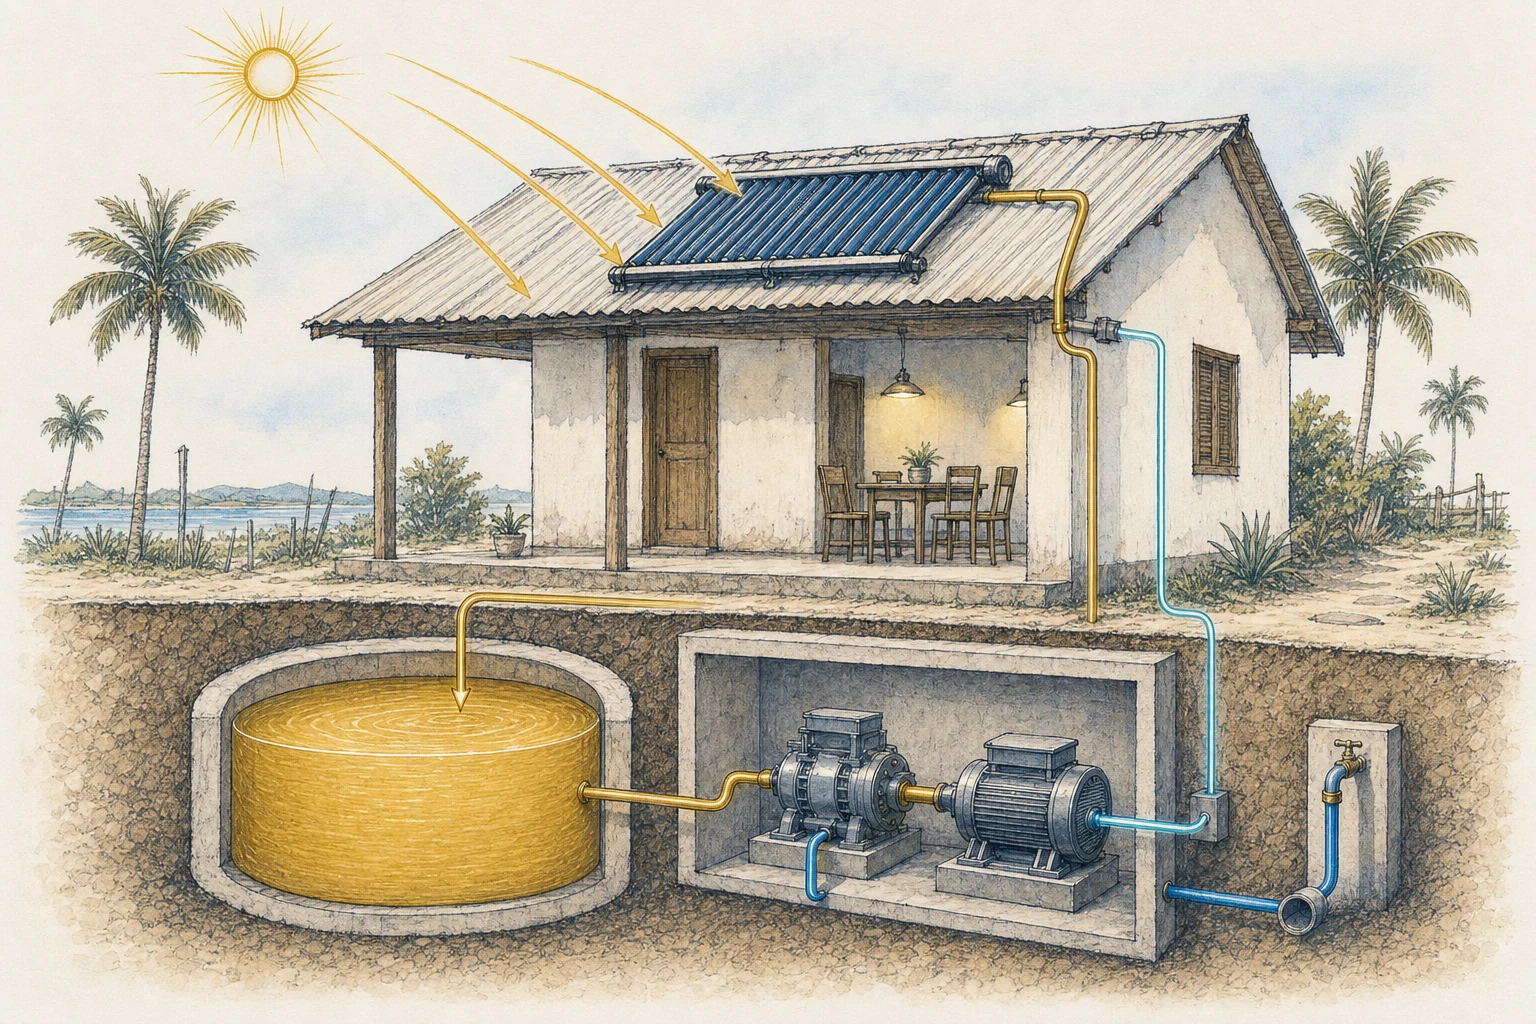
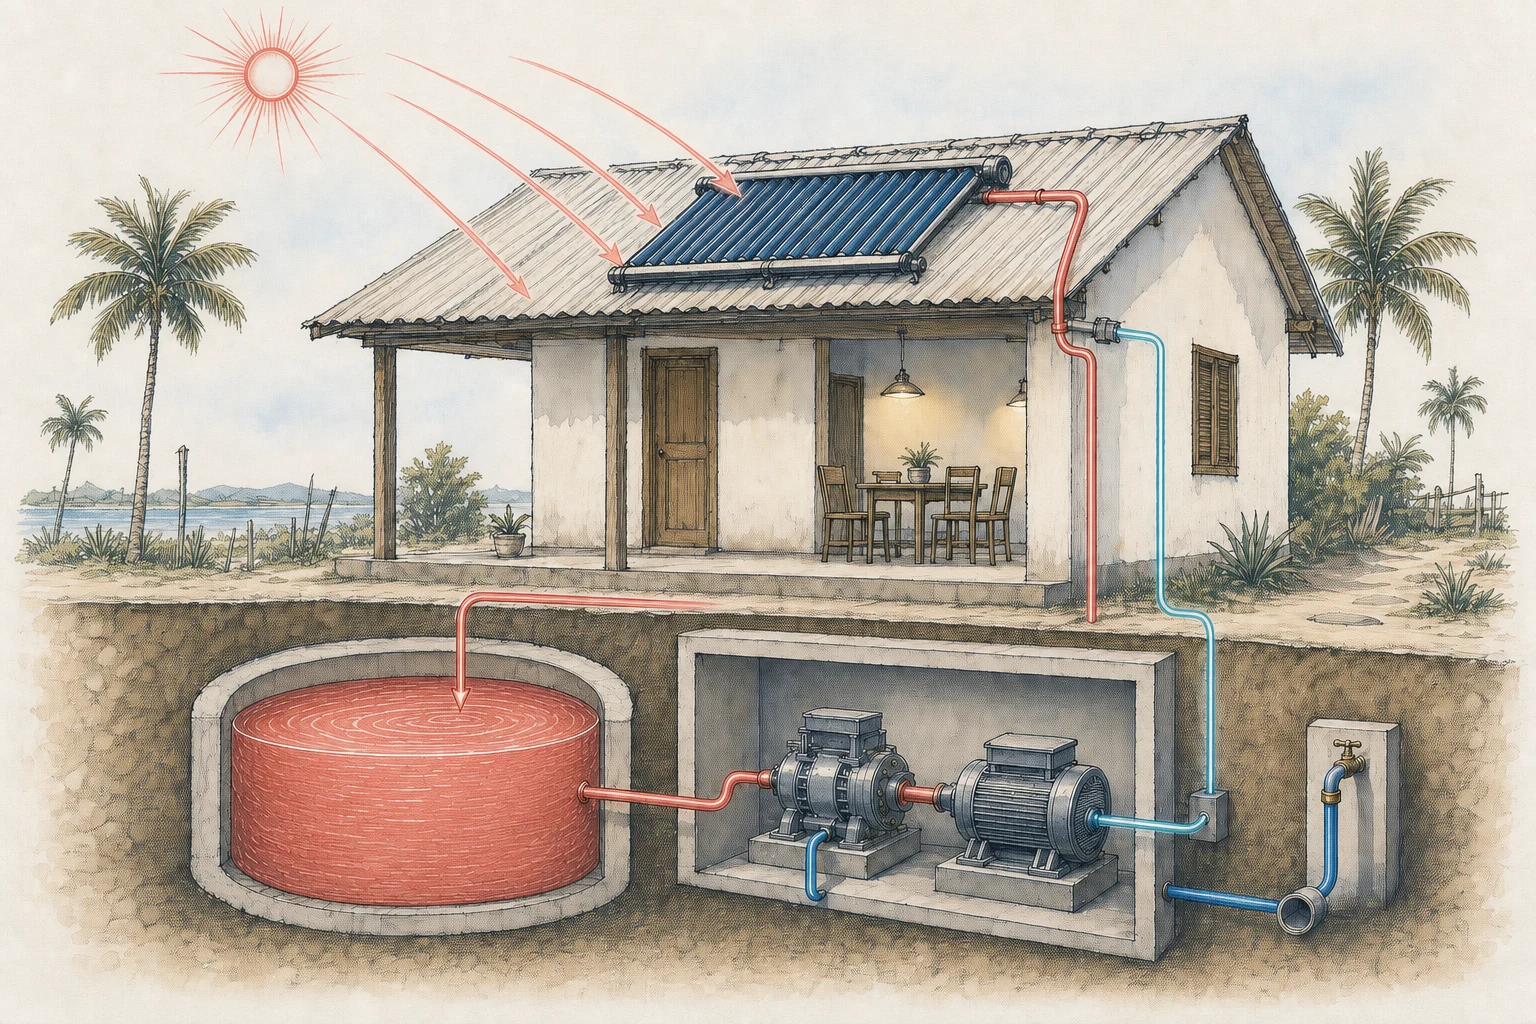
Adopt red and blue temperature palette

diff --git a/styles.css b/styles.css
@@ -3,8 +3,8 @@
   --navy: #071a2a;
   --blue: #5fb5d2;
   --blue-pale: #d9edf2;
-  --gold: #d6b34a;
-  --gold-light: #ead58a;
+  --hot: #d85b55;
+  --hot-light: #f09a8e;
   --sand: #f1ede4;
   --paper: #f8f6f0;
   --white: #fffdf8;
@@ -41,7 +41,7 @@ a { color: inherit; }
   border-bottom: 1px solid rgba(255,255,255,.17);
 }
 .brand { display: inline-flex; gap: .75rem; align-items: center; text-decoration: none; font-weight: 700; letter-spacing: -.02em; }
-.brand-mark { width: 24px; height: 24px; border: 2px solid var(--gold-light); border-radius: 50%; position: relative; }
+.brand-mark { width: 24px; height: 24px; border: 2px solid var(--hot-light); border-radius: 50%; position: relative; }
 .brand-mark::after { content: ""; position: absolute; inset: 5px; border: 1px solid var(--blue); border-radius: 50%; }
 .site-nav { display: flex; align-items: center; gap: 2.2rem; font-size: .84rem; }
 .site-nav a { text-decoration: none; opacity: .78; transition: opacity .2s ease; }
@@ -65,16 +65,16 @@ a { color: inherit; }
 .hero-copy { max-width: 670px; }
 .eyebrow { margin: 0 0 1.15rem; text-transform: uppercase; font-size: .72rem; font-weight: 700; letter-spacing: .18em; }
 .hero .eyebrow { color: #d7e5e9; }
-.hero .eyebrow span { display: inline-block; width: 24px; height: 1px; margin: 0 .6rem .2rem 0; background: var(--gold-light); }
+.hero .eyebrow span { display: inline-block; width: 24px; height: 1px; margin: 0 .6rem .2rem 0; background: var(--hot-light); }
 h1, h2, h3, p { margin-top: 0; }
 h1, h2 { font-family: Georgia, "Times New Roman", serif; font-weight: 400; line-height: .98; letter-spacing: -.045em; }
 h1 { max-width: 650px; margin-bottom: 1.8rem; font-size: clamp(4rem, 6.2vw, 6.8rem); }
-h1 em { color: var(--gold-light); font-weight: 400; }
+h1 em { color: var(--hot-light); font-weight: 400; }
 .hero-intro { max-width: 580px; color: #d6e0e4; font-size: 1.12rem; line-height: 1.7; }
 .hero-actions { display: flex; align-items: center; gap: 2rem; margin: 2.3rem 0 3.6rem; }
 .button { display: inline-flex; min-height: 50px; align-items: center; justify-content: center; padding: .8rem 1.35rem; text-decoration: none; font-size: .83rem; font-weight: 700; letter-spacing: .01em; transition: transform .2s, background .2s; }
 .button:hover { transform: translateY(-2px); }
-.button-primary { background: var(--gold); color: white; }
+.button-primary { background: var(--hot); color: white; }
 .text-link { text-decoration: none; font-size: .85rem; border-bottom: 1px solid rgba(255,255,255,.35); padding: .35rem 0; }
 .text-link span { margin-left: .45rem; color: var(--blue); }
 .hero-credit { margin: 0; padding-left: 1rem; color: #aebdc4; border-left: 2px solid var(--blue); font-size: .77rem; line-height: 1.7; }
@@ -86,15 +86,15 @@ h1 em { color: var(--gold-light); font-weight: 400; }
 .orbit { fill: none; stroke: rgba(255,255,255,.12); stroke-width: 1; stroke-dasharray: 3 8; }
 .orbit-two { stroke: rgba(255,255,255,.07); stroke-dasharray: none; }
 .flow { fill: none; stroke-width: 3; stroke-linecap: round; stroke-dasharray: 4 10; filter: url(#glow); }
-.flow-hot { stroke: var(--gold-light); }
+.flow-hot { stroke: var(--hot-light); }
 .flow-cold { stroke: var(--blue); }
 .engine-core circle:first-child { fill: rgba(7,26,42,.7); stroke: url(#thermal); stroke-width: 3; }
 .core-ring { fill: none; stroke: rgba(255,255,255,.24); stroke-width: 18; stroke-dasharray: 45 12; }
 .piston { fill: none; stroke: white; stroke-width: 5; stroke-linecap: round; stroke-linejoin: round; }
-.core-pin { fill: var(--gold-light); }
+.core-pin { fill: var(--hot-light); }
 .source circle { fill: var(--navy); stroke-width: 2; }
 .source path { fill: none; stroke-width: 2; }
-.source-hot circle, .source-hot path { stroke: var(--gold-light); }
+.source-hot circle, .source-hot path { stroke: var(--hot-light); }
 .source-cold circle, .source-cold path { stroke: var(--blue); }
 .output-line { fill: none; stroke: rgba(255,255,255,.25); stroke-width: 1.5; }
 .output circle { fill: var(--navy); stroke: #dbe4e7; stroke-width: 2; }
@@ -105,17 +105,17 @@ h1 em { color: var(--gold-light); font-weight: 400; }
 .label-hot { top: 23%; left: 0; }
 .label-cold { right: 0; bottom: 25%; text-align: right; }
 .visual-caption { display: flex; gap: .8rem; justify-content: flex-end; margin-top: -1.5rem; color: rgba(255,255,255,.45); font-size: .64rem; text-transform: uppercase; letter-spacing: .15em; }
-.visual-caption span { color: var(--gold-light); }
+.visual-caption span { color: var(--hot-light); }
 
 .section { width: min(calc(100% - 48px), var(--max)); margin: 0 auto; padding: 110px 0; }
 .section-number { padding-top: .35rem; color: #6d7880; font-size: .65rem; letter-spacing: .14em; }
 .problem-section { display: grid; grid-template-columns: .55fr 1.45fr 1fr; gap: 4rem; border-bottom: 1px solid var(--line); }
-.section-heading .eyebrow, .water-copy .eyebrow, .status-section .eyebrow, .contact-section .eyebrow { color: var(--gold); }
+.section-heading .eyebrow, .water-copy .eyebrow, .status-section .eyebrow, .contact-section .eyebrow { color: var(--hot); }
 h2 { margin-bottom: 1.5rem; font-size: clamp(2.8rem, 4.6vw, 5rem); }
 .section-heading h2 { max-width: 650px; }
 .section-heading.wide { grid-column: 2 / -1; }
 .section-heading.wide h2 { max-width: 920px; }
-.section-heading h2 span { color: var(--gold); }
+.section-heading h2 span { color: var(--hot); }
 .section-copy { padding-top: 2.5rem; color: #52616c; font-size: .98rem; }
 .section-copy p + p { margin-top: 1.5rem; }
 
@@ -127,18 +127,18 @@ h2 { margin-bottom: 1.5rem; font-size: clamp(2.8rem, 4.6vw, 5rem); }
 .process-grid h3, .application-list h3, .person h3 { margin-bottom: .7rem; font-family: Georgia, serif; font-size: 1.6rem; font-weight: 400; }
 .process-grid p, .application-list p, .person p { color: #5a6871; font-size: .87rem; }
 .step-icon { position: relative; width: 66px; height: 66px; margin: 3rem 0 2rem; }
-.heat-icon i { position: absolute; width: 10px; height: 50px; border: 2px solid var(--gold); border-width: 0 2px; border-radius: 50%; transform: rotate(18deg); }
+.heat-icon i { position: absolute; width: 10px; height: 50px; border: 2px solid var(--hot); border-width: 0 2px; border-radius: 50%; transform: rotate(18deg); }
 .heat-icon i:nth-child(2) { left: 20px; top: 8px; }
 .heat-icon i:nth-child(3) { left: 40px; top: -5px; }
 .store-icon { border: 2px solid var(--ink); border-radius: 3px; }
-.store-icon::before { content: ""; position: absolute; top: 9px; left: 9px; right: 9px; height: 24px; background: linear-gradient(90deg, var(--gold), var(--gold-light)); }
+.store-icon::before { content: ""; position: absolute; top: 9px; left: 9px; right: 9px; height: 24px; background: linear-gradient(90deg, var(--hot), var(--hot-light)); }
 .store-icon i { position: absolute; left: 12px; right: 12px; bottom: 9px; height: 12px; border-top: 1px solid var(--ink); }
 .exchange-icon { border: 1px solid var(--line); border-radius: 50%; }
 .exchange-icon::before, .exchange-icon::after { content: ""; position: absolute; inset: 13px; border-radius: 50%; border: 3px solid transparent; transform: rotate(35deg); }
-.exchange-icon::before { border-top-color: var(--gold); border-right-color: var(--gold); }
+.exchange-icon::before { border-top-color: var(--hot); border-right-color: var(--hot); }
 .exchange-icon::after { border-bottom-color: var(--blue); border-left-color: var(--blue); }
 .motion-icon { border: 2px solid var(--ink); border-radius: 50%; }
-.motion-icon::before { content: ""; position: absolute; inset: 13px; border: 8px dotted var(--gold); border-radius: 50%; }
+.motion-icon::before { content: ""; position: absolute; inset: 13px; border: 8px dotted var(--hot); border-radius: 50%; }
 .motion-icon i { position: absolute; top: 31px; left: 31px; width: 50px; height: 2px; background: var(--ink); transform: rotate(-25deg); transform-origin: left; }
 .process-note { grid-column: 1 / -1; margin: 1.2rem 0 0; text-align: right; color: #778188; font-size: .68rem; font-style: italic; }
 
@@ -194,7 +194,7 @@ h2 { margin-bottom: 1.5rem; font-size: clamp(2.8rem, 4.6vw, 5rem); }
 .applications-section { padding-bottom: 130px; }
 .application-list { grid-column: 1 / -1; margin-top: 2rem; border-top: 1px solid var(--line); }
 .application-list article { display: grid; grid-template-columns: .4fr 1fr 1.4fr; gap: 2rem; align-items: baseline; padding: 1.8rem .5rem; border-bottom: 1px solid var(--line); }
-.application-list article > span { color: var(--gold); font-size: .66rem; }
+.application-list article > span { color: var(--hot); font-size: .66rem; }
 .application-list h3, .application-list p { margin: 0; }
 
 .status-section { width: 100%; max-width: none; padding: 90px max(24px, calc((100vw - var(--max)) / 2)); background: var(--sand); display: grid; grid-template-columns: 1.4fr 1fr; gap: 8vw; }
@@ -206,15 +206,15 @@ h2 { margin-bottom: 1.5rem; font-size: clamp(2.8rem, 4.6vw, 5rem); }
 .person { min-height: 380px; padding: 2.5rem 3rem 2rem 0; }
 .person + .person { padding-left: 3rem; border-left: 1px solid var(--line); }
 .person-monogram { width: 74px; height: 74px; margin-bottom: 4rem; display: grid; place-items: center; border: 1px solid var(--blue); border-radius: 50%; font-family: Georgia, serif; color: var(--blue); }
-.person-lead .person-monogram { border-color: var(--gold); color: var(--gold); }
+.person-lead .person-monogram { border-color: var(--hot); color: var(--hot); }
 .person-role { margin-bottom: .8rem; color: #7a858b; font-size: .66rem; text-transform: uppercase; letter-spacing: .14em; }
 .person h3 { font-size: 2rem; }
 .person p { max-width: 480px; }
 
-.contact-section { padding: 130px 24px; color: white; background: var(--gold); text-align: center; }
-.contact-section .eyebrow { color: #3b351f; }
+.contact-section { padding: 130px 24px; color: white; background: var(--hot); text-align: center; }
+.contact-section .eyebrow { color: #4a2421; }
 .contact-section h2 { max-width: 800px; margin: 0 auto 1.5rem; font-size: clamp(3.6rem, 6vw, 6.5rem); }
-.contact-section p:not(.eyebrow) { max-width: 610px; margin: 0 auto 2.3rem; color: #fff8dc; }
+.contact-section p:not(.eyebrow) { max-width: 610px; margin: 0 auto 2.3rem; color: #fff0ed; }
 .button-light { color: var(--ink); background: var(--white); }
 
 .site-footer { padding: 3rem max(24px, calc((100vw - var(--max)) / 2)); color: #a8bac2; background: var(--navy); display: grid; grid-template-columns: 1fr 1fr 1fr; align-items: center; font-size: .7rem; }